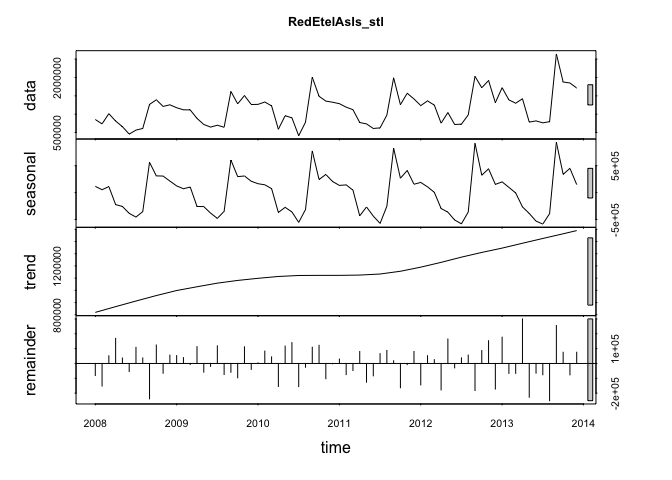
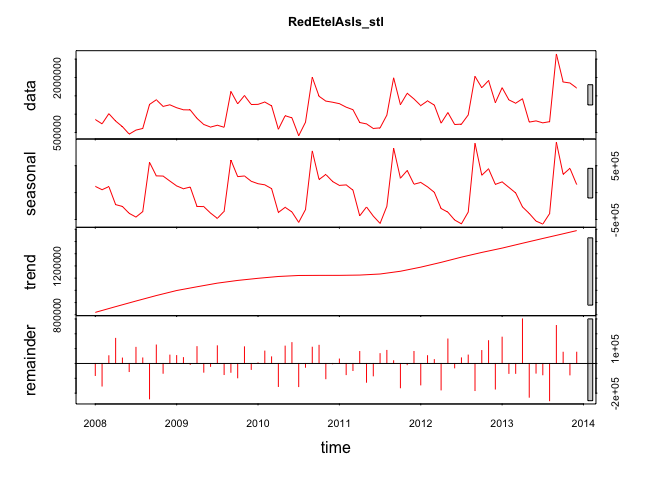
Add files via upload

diff --git a/analysis/data/2.md b/analysis/data/2.md
@@ -41,14 +41,6 @@ plot(RedEtelPlan, col="red", main="RedEtelPlan")
 
 ![](2_files/figure-html/unnamed-chunk-3-1.png)<!-- -->
 
-```r
-mywait()
-```
-
-```
-## <Tcl>
-```
-
 ****************************
 <div id='id-section2.2'/>
 ####  2.2 Correlation between As Is and Plan data                                  
@@ -64,20 +56,12 @@ cor(RedEtelAsIs , RedEtelPlan)
 ## [1] 0.9106702
 ```
 
-```r
-mywait()
-```
-
-```
-## <Tcl>
-```
-
 ****************************
-<div id='id-section2.2'/>
+<div id='id-section2.3'/>
 #### 2.3 Time series analysis                                                     
 
 ****************************
-<div id='id-section2.2'/>
+<div id='id-section2.3.1'/>
 #### 2.3.1 "stl" function                                                         
 
 The time series can be analysed using the stl function in order to seperate the trend, seasonality and remainder (remaining coincidential) components from one another.
@@ -91,120 +75,20 @@ Thus the individual time series can be shown graphically and tabularly.The trend
 
 
 ```r
-plot(RedEtelAsIs_stl, col="black", main="RedEtelAsIs_stl")
+par(mfrow=c(2,1))
+plot(RedEtelAsIs_stl, col="red", main="RedEtelAsIs_stl")
 ```
 
 ![](2_files/figure-html/unnamed-chunk-6-1.png)<!-- -->
 
 ```r
-RedEtelAsIs_stl
-```
-
-```
-##  Call:
-##  stl(x = RedEtelAsIs, s.window = 5)
-## 
-## Components
-##             seasonal     trend   remainder
-## Jan 2008  115268.835  819418.3  -80911.162
-## Feb 2008   53585.615  835090.7 -151982.316
-## Mar 2008  111466.463  850763.1   51778.461
-## Apr 2008 -223395.889  866435.4  168974.440
-## May 2008 -257525.355  881768.0   36385.394
-## Jun 2008 -386103.162  897100.5  -54367.310
-## Jul 2008 -454551.470  912433.0  108491.485
-## Aug 2008 -353485.938  927380.2   37036.720
-## Sep 2008  562461.720  942327.5 -238257.172
-## Oct 2008  310944.528  957274.7  124204.786
-## Nov 2008  306904.849  971015.9  -65803.760
-## Dec 2008  214406.334  984757.1   56205.531
-## Jan 2009  124363.076  998498.4   52930.565
-## Feb 2009   71697.616 1008743.3   39293.091
-## Mar 2009  103161.725 1018988.2   -6506.953
-## Apr 2009 -257075.580 1029233.2  113255.418
-## May 2009 -260763.268 1039127.1  -58571.874
-## Jun 2009 -380805.212 1049021.1  -19457.912
-## Jul 2009 -479246.894 1058915.1  118797.789
-## Aug 2009 -347308.936 1066343.0  -74456.050
-## Sep 2009  605315.129 1073770.9  -59225.996
-## Oct 2009  296829.840 1081198.7  -96504.588
-## Nov 2009  308679.739 1086986.0  111974.233
-## Dec 2009  210565.226 1092773.3  -39898.534
-## Jan 2010  165231.780 1098560.6    3889.633
-## Feb 2010  144199.451 1103536.8   83280.783
-## Mar 2010   73948.266 1108512.9   44404.788
-## Apr 2010 -368967.981 1113489.1 -154893.145
-## May 2010 -274074.598 1116232.9  116801.697
-## Jun 2010 -359642.195 1118976.7  140374.518
-## Jul 2010 -553371.024 1121720.5 -155685.429
-## Aug 2010 -315325.262 1122005.8  -25317.534
-## Sep 2010  774692.841 1122291.1  109414.018
-## Oct 2010  242868.585 1122576.5  122234.930
-## Nov 2010  337167.718 1122626.4 -102618.100
-## Dec 2010  205190.103 1122676.3   -2105.381
-## Jan 2011  133952.721 1122726.2   29695.105
-## Feb 2011  142906.823 1123505.9  -74990.731
-## Mar 2011   45715.744 1124285.6  -47397.386
-## Apr 2011 -432326.121 1125065.4   80411.745
-## May 2011 -266747.553 1127972.9 -126278.375
-## Jun 2011 -436589.538 1130880.5  -83245.941
-## Jul 2011 -572771.802 1133788.0   66181.771
-## Aug 2011 -254066.178 1141308.2   87855.956
-## Sep 2011  824288.759 1148828.4   18141.828
-## Oct 2011  266961.044 1156348.6 -163651.649
-## Nov 2011  411252.213 1167560.9   -7996.121
-## Dec 2011  155394.594 1178773.2   80708.196
-## Jan 2012  188862.232 1189985.5 -144306.744
-## Feb 2012  106679.632 1203067.9   52275.454
-## Mar 2012    5345.035 1216150.3   25750.648
-## Apr 2012 -295813.639 1229232.7 -178072.081
-## May 2012 -363944.157 1243491.3  164701.888
-## Jun 2012 -509744.966 1257749.8  -29522.851
-## Jul 2012 -580474.662 1272008.4   37477.296
-## Aug 2012 -361163.446 1284870.0   56447.422
-## Sep 2012  915303.837 1297731.7 -182359.519
-## Oct 2012  322707.245 1310593.3   87000.416
-## Nov 2012  441745.957 1322405.3  153256.733
-## Dec 2012  152706.817 1334217.3 -172227.099
-## Jan 2013  198867.808 1346029.3  177102.939
-## Feb 2013   96731.864 1359290.0  -66837.878
-## Mar 2013   -6338.588 1372550.8  -66542.188
-## Apr 2013 -265875.136 1385811.5  300102.598
-## May 2013 -387655.909 1398857.8 -227168.886
-## Jun 2013 -529820.071 1411904.1  -64901.981
-## Jul 2013 -584752.754 1424950.3  -76077.555
-## Aug 2013 -390807.670 1437753.9 -250823.189
-## Sep 2013  935099.766 1450557.4  255568.824
-## Oct 2013  338995.467 1463361.0   75567.574
-## Nov 2013  450559.803 1476384.4  -76833.165
-## Dec 2013  148428.084 1489407.8   75767.153
-```
-
-```r
-mywait()
-```
-
-```
-## <Tcl>
-```
-
-```r
-par(mfrow=c(3,2))
-
-
 plot(RedEtelAsIs_stl$time.series[,"trend"], col="red")
-mywait()
-```
-
-```
-## <Tcl>
 ```
 
 ![](2_files/figure-html/unnamed-chunk-6-2.png)<!-- -->
 
 ****************************
-<div id='id-section2.3'/>
-
+<div id='id-section2.3.2'/>
 #### 2.3.2 Modification of the seasonal componant to a monthly base       
 
 The modification of the seasonlity component can also be changed into a monthly view. It only makes sense to do this if the seasonality componant as the trend looks almost identical and the remainder is then randomly spread. 
@@ -215,11 +99,3 @@ monthplot(RedEtelAsIs_stl$time.series[,"seasonal"], main="", ylab="Seasonal")
 ```
 
 ![](2_files/figure-html/unnamed-chunk-7-1.png)<!-- -->
-
-```r
-mywait()
-```
-
-```
-## <Tcl>
-```
